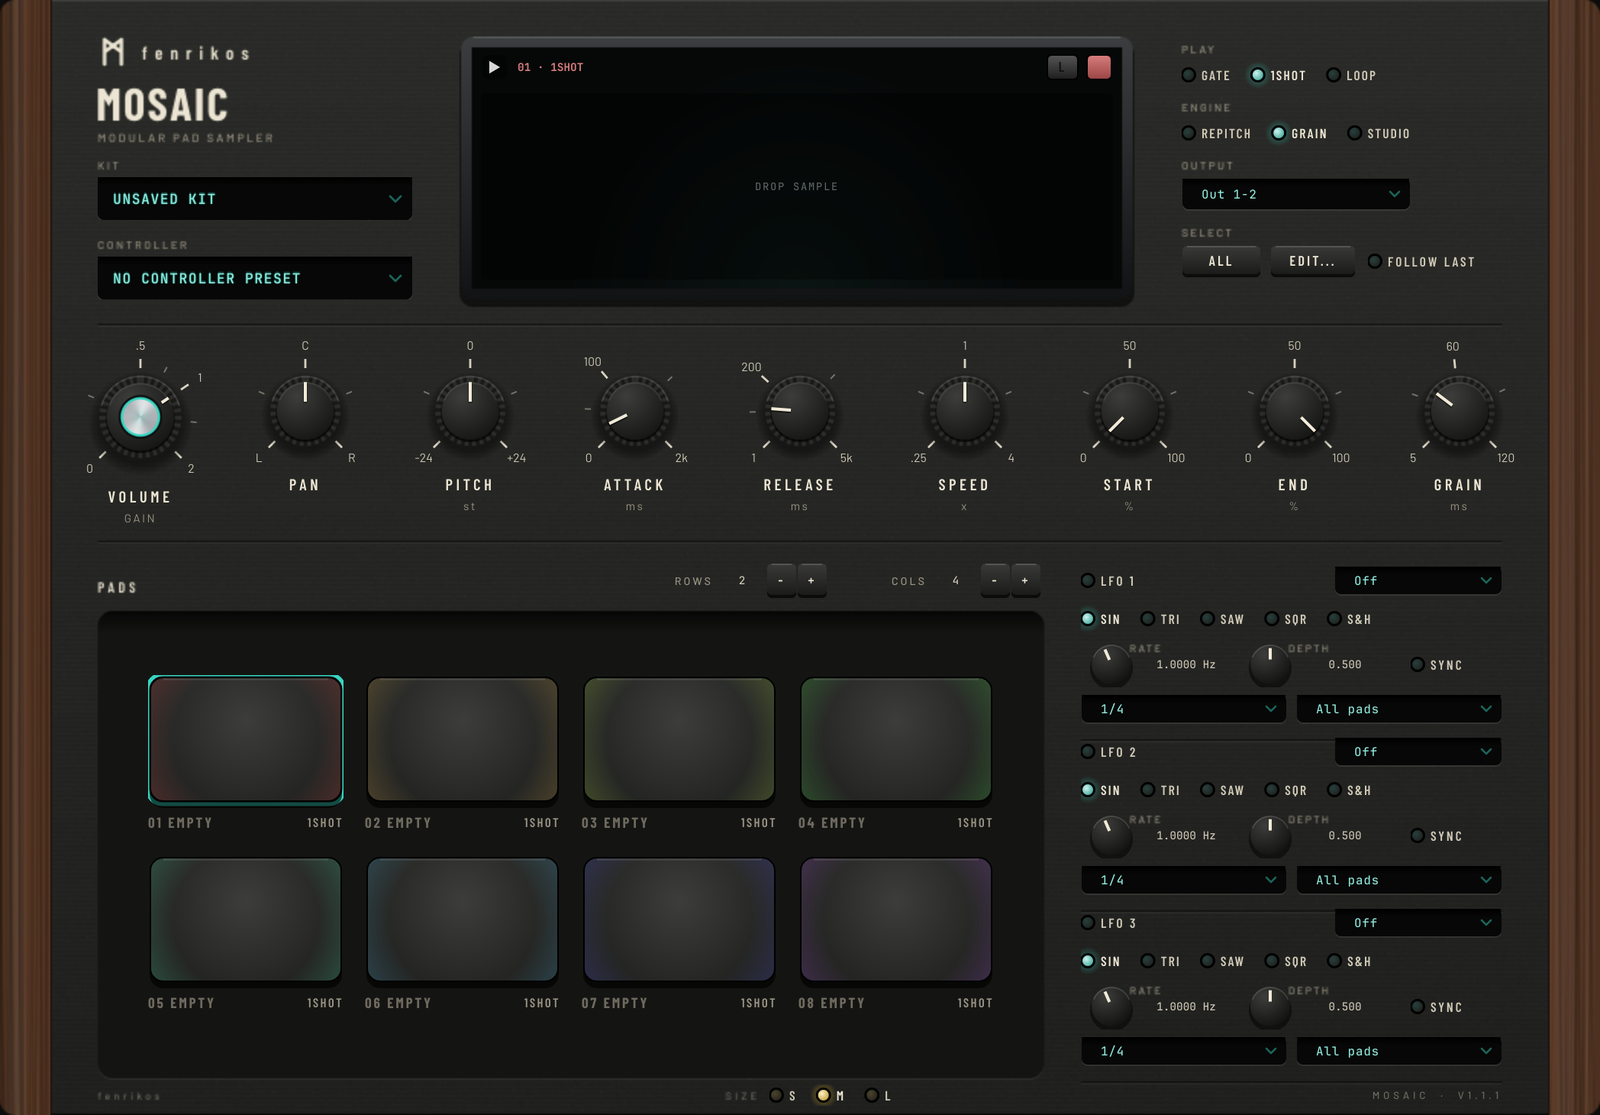
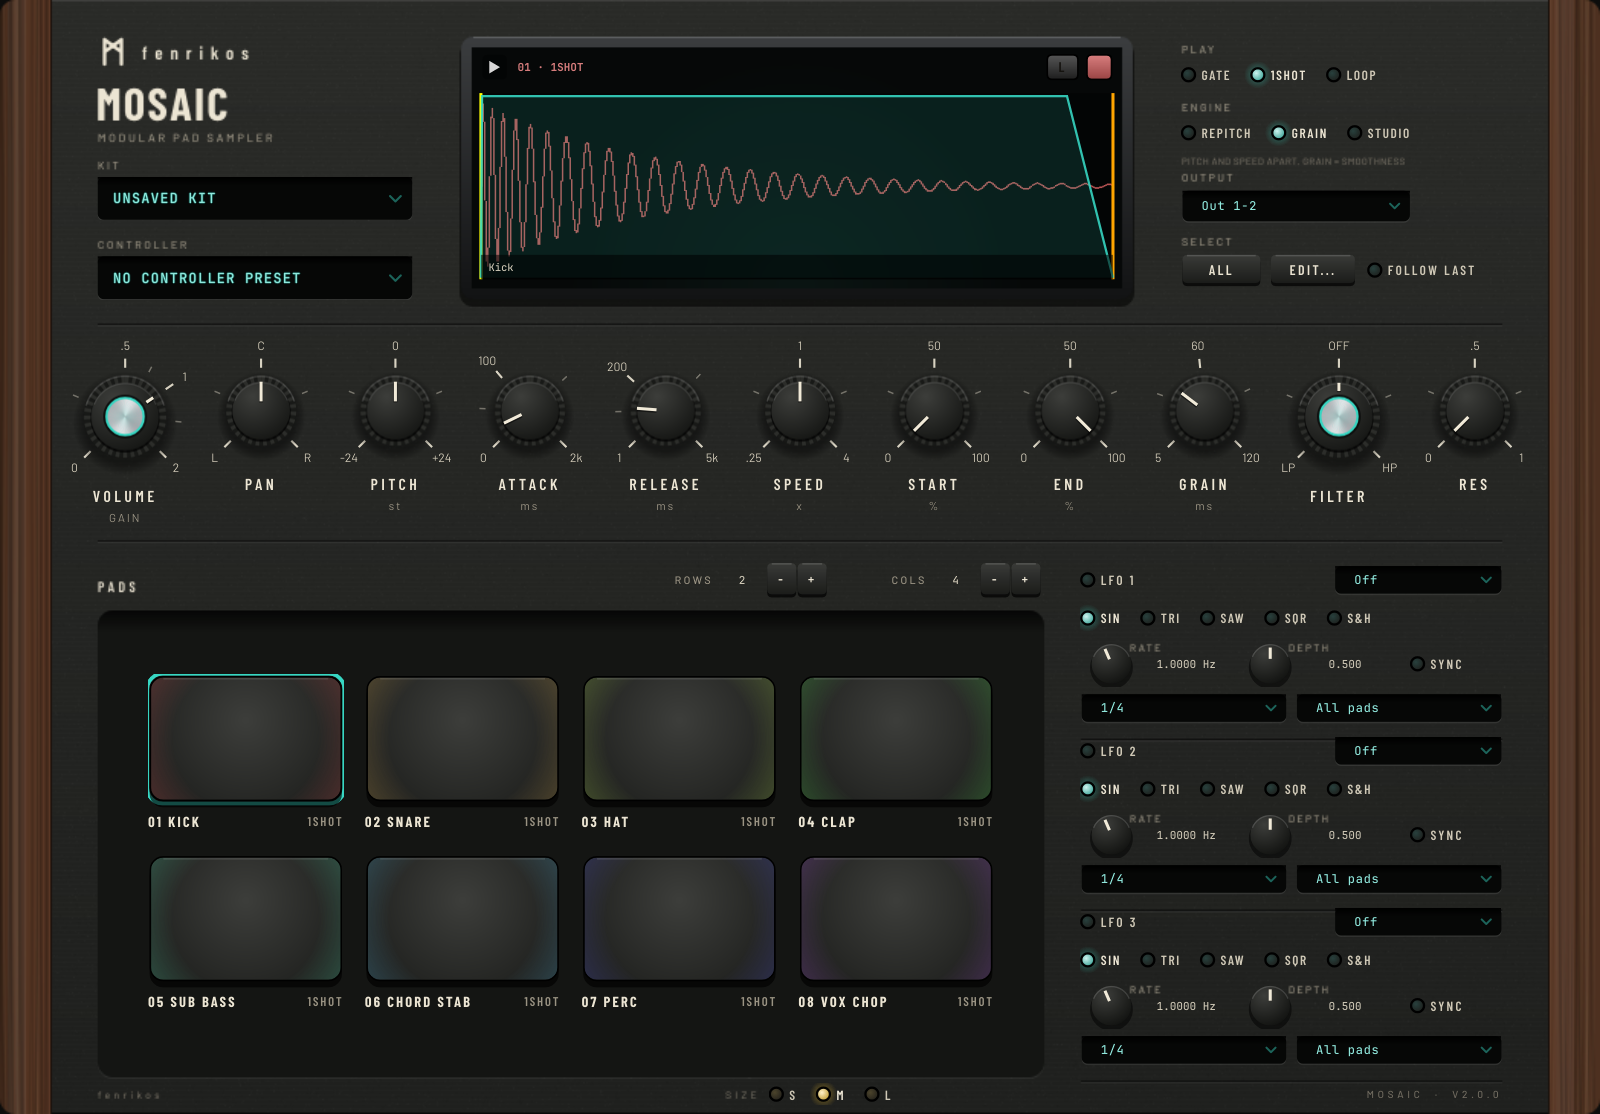
MOSAIC 2.0.0: version, changelog, new screenshot with a demo kit; no asterisk on an unsaved kit; fix the mis-decoded multiplication sign

diff --git a/tools/Snapshot.cpp b/tools/Snapshot.cpp
@@ -1,11 +1,15 @@
 // Renders the MOSAIC editor to PNG while feeding it a synthetic mix, so the meters and
 // displays show live content. Used for README screenshots and visual checks.
-//   MOSAIC_snapshot out.png [factoryPresetIndex] [--bench] [--scale N]
+//   MOSAIC_snapshot out.png [factoryPresetIndex] [--bench] [--scale N] [--demo]
 // --bench also prints the average time to paint one full frame of the editor.
+// --demo fills the pads with synthetic drum, bass and chord samples (written to a temp folder), so the
+// screenshot shows waveforms and a playing pad instead of empty pads.
 // --scale renders at N times the editor's size (e.g. 2 for store artwork).
 
 #include <juce_audio_processors/juce_audio_processors.h>
+#include <juce_audio_formats/juce_audio_formats.h>
 #include <juce_gui_basics/juce_gui_basics.h>
+#include "PluginProcessor.h"
 
 #include <cstdio>
 
@@ -41,6 +45,49 @@ namespace
     };
 }
 
+namespace
+{
+    // Eight short synthetic sounds, written as wav files named like real kit samples.
+    juce::Array<juce::File> writeDemoSamples()
+    {
+        const auto dir = juce::File::getSpecialLocation (juce::File::tempDirectory).getChildFile ("mosaic-demo-kit");
+        dir.createDirectory();
+        constexpr double sr = 44100.0;
+        const auto twoPi = juce::MathConstants<double>::twoPi;
+        juce::Random random (7);
+        juce::Array<juce::File> files;
+
+        const auto write = [&] (const char* name, double seconds, std::function<double (double, int)> voice)
+        {
+            const int count = (int) (seconds * sr);
+            juce::AudioBuffer<float> buffer (1, count);
+            for (int n = 0; n < count; ++n)
+                buffer.setSample (0, n, (float) juce::jlimit (-1.0, 1.0, voice ((double) n / sr, n)));
+            const auto file = dir.getChildFile (juce::String (name) + ".wav");
+            file.deleteFile();
+            juce::WavAudioFormat wav;
+            if (auto stream = file.createOutputStream())
+                if (auto writer = std::unique_ptr<juce::AudioFormatWriter> (wav.createWriterFor (stream.get(), sr, 1, 16, {}, 0)))
+                {
+                    stream.release();
+                    writer->writeFromAudioSampleBuffer (buffer, 0, count);
+                }
+            files.add (file);
+        };
+        const auto noise = [&] { return random.nextDouble() * 2.0 - 1.0; };
+
+        write ("Kick", 0.55, [&] (double t, int) { return 0.9 * std::sin (twoPi * (48.0 * t + 90.0 * (1.0 - std::exp (-t * 30.0)) / 30.0)) * std::exp (-t * 7.0); });
+        write ("Snare", 0.4, [&] (double t, int) { return (0.5 * noise() + 0.4 * std::sin (twoPi * 190.0 * t)) * std::exp (-t * 14.0); });
+        write ("Hat", 0.18, [&] (double t, int) { return 0.5 * noise() * std::exp (-t * 38.0); });
+        write ("Clap", 0.45, [&] (double t, int) { return 0.6 * noise() * (std::exp (-std::fmod (t, 0.022) * 160.0) * (t < 0.07 ? 1.0 : 0.0) + std::exp (-t * 12.0) * (t >= 0.07 ? 0.7 : 0.0)); });
+        write ("Sub Bass", 1.1, [&] (double t, int) { return 0.8 * std::sin (twoPi * 55.0 * t) * std::min (1.0, t * 80.0) * std::exp (-t * 2.2); });
+        write ("Chord Stab", 1.0, [&] (double t, int) { return 0.22 * (std::sin (twoPi * 261.6 * t) + std::sin (twoPi * 329.6 * t) + std::sin (twoPi * 392.0 * t)) * std::min (1.0, t * 40.0) * std::exp (-t * 3.0); });
+        write ("Perc", 0.3, [&] (double t, int) { return 0.7 * std::sin (twoPi * (820.0 - 300.0 * t) * t) * std::exp (-t * 16.0); });
+        write ("Vox Chop", 0.9, [&] (double t, int) { return 0.4 * (std::sin (twoPi * 210.0 * t) * (0.6 + 0.4 * std::sin (twoPi * 5.0 * t)) + 0.3 * std::sin (twoPi * 840.0 * t)) * std::sin (juce::MathConstants<double>::pi * juce::jmin (1.0, t / 0.9)); });
+        return files;
+    }
+}
+
 int main (int argc, char* argv[])
 {
     juce::ScopedJuceInitialiser_GUI gui;
@@ -51,8 +98,23 @@ int main (int argc, char* argv[])
     std::unique_ptr<juce::AudioProcessor> processor (createPluginFilter());
     processor->setPlayConfigDetails (2, 2, sampleRate, blockSize);
     processor->prepareToPlay (sampleRate, blockSize);
-    if (argc > 2)
+    if (argc > 2 && ! juce::String (argv[2]).startsWith ("--"))
         processor->setCurrentProgram (juce::String (argv[2]).getIntValue());
+
+    bool demo = false;
+    for (int i = 1; i < argc; ++i)
+        demo = demo || juce::String (argv[i]) == "--demo";
+    if (demo)
+    {
+        if (auto* mosaic = dynamic_cast<MosaicAudioProcessor*> (processor.get()))
+        {
+            const auto files = writeDemoSamples();
+            for (int pad = 0; pad < files.size(); ++pad)
+                mosaic->setPadSample (pad, files[pad]);
+            mosaic->padPressed (0, 1.0f);   // a playing pad: shows the playhead and the lit pad
+            mosaic->padPressed (4, 1.0f);
+        }
+    }
 
     auto* editor = processor->createEditorAndMakeActive();
     juce::AudioBuffer<float> buffer (2, blockSize);

diff --git a/Source/PluginEditor.cpp b/Source/PluginEditor.cpp
@@ -673,7 +673,7 @@ void MosaicEditor::applySelection()
     suppressMirror = false;
 
     inspectorTitle.setText (selectedPads.size() > 1
-                                ? "PADS × " + juce::String ((int) selectedPads.size())
+                                ? juce::String::fromUTF8 ("PADS \xc3\x97 ") + juce::String ((int) selectedPads.size())
                                 : "PAD " + juce::String (selectedPad + 1),
                             juce::dontSendNotification);
 
@@ -890,7 +890,7 @@ void MosaicEditor::PresetWindow::paintButton (juce::Graphics& g, bool over, bool
 void MosaicEditor::refreshPresetNames()
 {
     const auto kit = processor.getKitName(), controller = processor.getControllerName();
-    const auto kitText = (kit.isNotEmpty() ? kit.toUpperCase() : juce::String ("UNSAVED KIT")) + (processor.isKitModified() ? "*" : "");
+    const auto kitText = (kit.isNotEmpty() ? kit.toUpperCase() : juce::String ("UNSAVED KIT")) + (kit.isNotEmpty() && processor.isKitModified() ? "*" : "");
     const auto controllerText = (controller.isNotEmpty() ? controller.toUpperCase() : juce::String ("NO CONTROLLER PRESET"))
                                 + (controller.isNotEmpty() && processor.isControllerModified() ? "*" : "");
     if (kitText != kitWindow.getButtonText())
